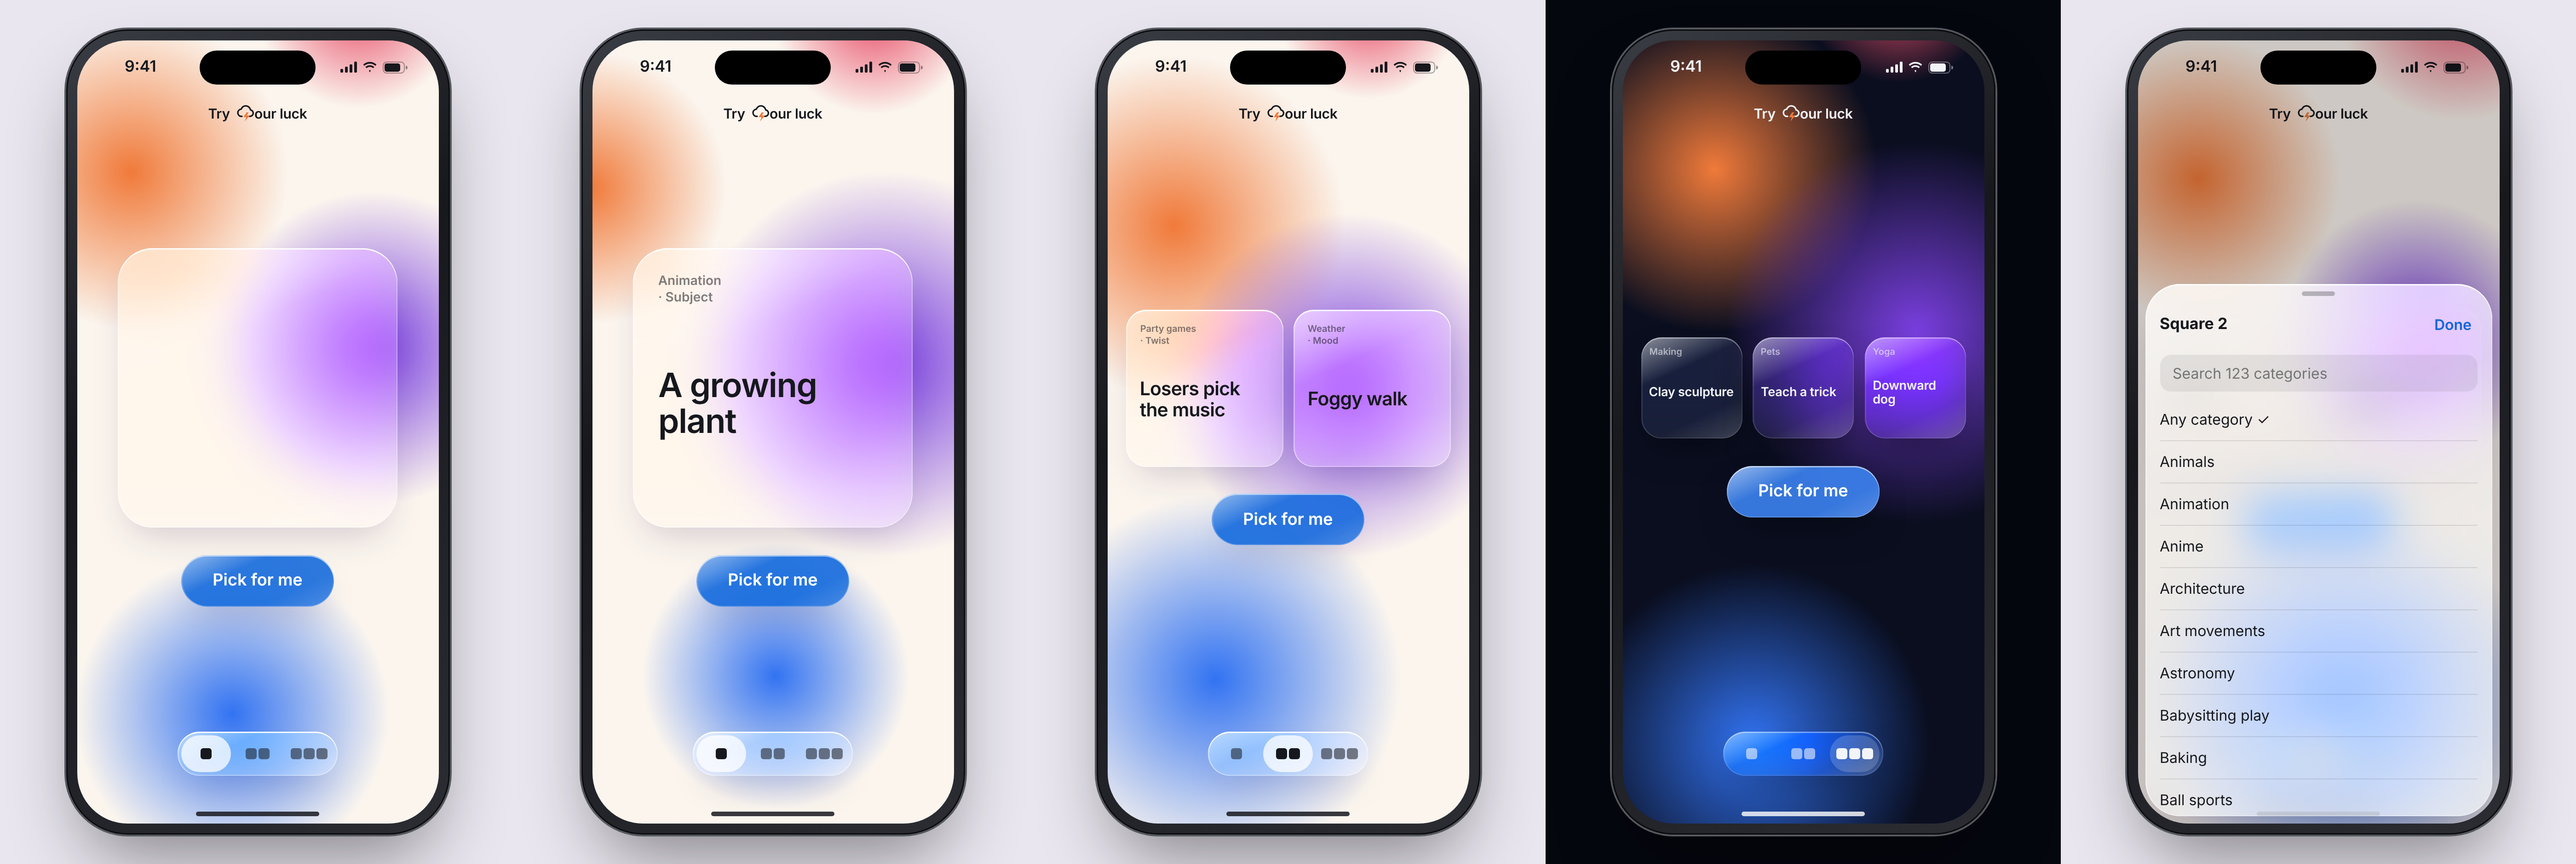
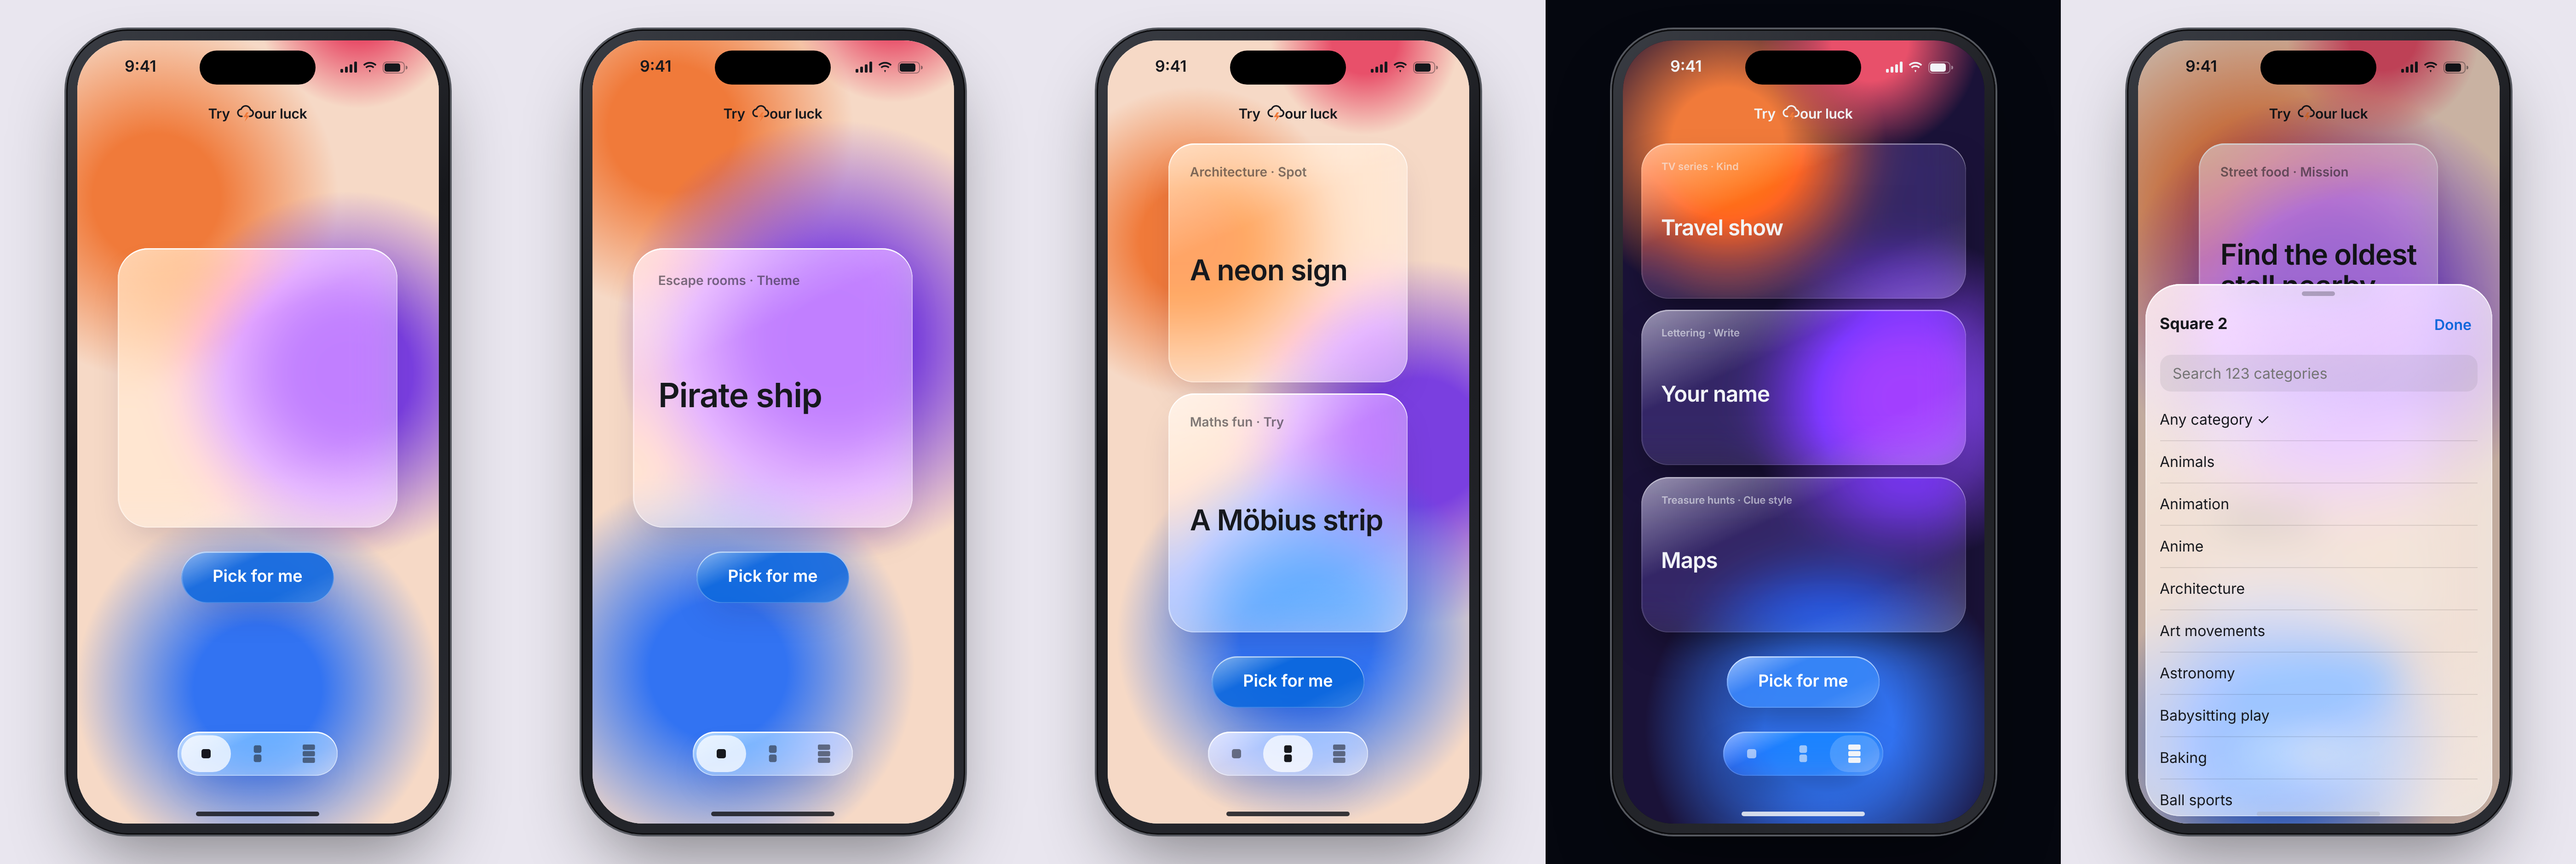
Stack squares vertically and strengthen the colour wash
Claude-Session: https://claude.ai/code/session_018bKjS9Z5v4JqpJXn7fgvmw

diff --git a/random-pick/index.html b/random-pick/index.html
@@ -14,7 +14,7 @@
    COLOUR cream ground with peach, lilac and jomud blue light behind the glass; blue for the one action
    TYPE SF Pro on iPhone (system-ui), Inter as the stand-in elsewhere
    LAYOUT phone: tiny title, squares and Pick centred, count switch above the home bar; wider: the same screen inside an iPhone 15 frame */
-:root{color-scheme:light dark;--bg:light-dark(#FBF5EE,#0A0E1F);--ink:light-dark(#16181D,#F2F4F8);--muted:light-dark(rgba(22,24,29,.55),rgba(242,244,248,.6));--brand:light-dark(#0F66DB,#3D86F5);--peach:#F07A3A;--lilac:#7A3FE0;--rose:#E8506A;--sky:#3273F2;--gfill:light-dark(rgba(255,255,255,.22),rgba(255,255,255,.07));--ghi:light-dark(rgba(255,255,255,.9),rgba(255,255,255,.38));--glo:light-dark(rgba(255,255,255,.35),rgba(255,255,255,.1));--gshadow:light-dark(rgba(40,25,80,.22),rgba(0,0,0,.5));--blob:light-dark(.85,.55);--stage:light-dark(#E9E6EF,#05070F)}
+:root{color-scheme:light dark;--bg:light-dark(#FBF5EE,#0A0E1F);--ink:light-dark(#16181D,#F2F4F8);--muted:light-dark(rgba(22,24,29,.55),rgba(242,244,248,.6));--brand:light-dark(#0F66DB,#3D86F5);--peach:#F07A3A;--lilac:#7A3FE0;--rose:#E8506A;--sky:#3273F2;--gfill:light-dark(rgba(255,255,255,.4),rgba(255,255,255,.1));--ghi:light-dark(rgba(255,255,255,.9),rgba(255,255,255,.38));--glo:light-dark(rgba(255,255,255,.35),rgba(255,255,255,.1));--gshadow:light-dark(rgba(40,25,80,.22),rgba(0,0,0,.5));--blob:light-dark(1,.8);--stage:light-dark(#E9E6EF,#05070F)}
 :root[data-theme=light]{color-scheme:light}:root[data-theme=dark]{color-scheme:dark}
 *{box-sizing:border-box;min-width:0}
 html,body{height:100%}
@@ -37,12 +37,12 @@ button{font:inherit;color:inherit;border:0;background:none;padding:0;cursor:poin
 }
 
 /* colour wash behind the glass */
-.wash{position:absolute;inset:-20%;pointer-events:none;opacity:var(--blob)}
-.wash i{position:absolute;width:62%;aspect-ratio:1;border-radius:50%;transition:transform 1.6s cubic-bezier(.2,.8,.2,1)}
-.wash i:nth-child(1){left:-6%;top:12%;background:radial-gradient(closest-side,var(--peach),transparent)}
-.wash i:nth-child(2){right:-4%;top:28%;background:radial-gradient(closest-side,var(--lilac),transparent)}
-.wash i:nth-child(3){left:14%;bottom:10%;background:radial-gradient(closest-side,var(--sky),transparent)}
-.wash i:nth-child(4){right:10%;top:2%;width:40%;background:radial-gradient(closest-side,var(--rose),transparent)}
+.wash{position:absolute;inset:-20%;background:light-dark(#F6D9C6,#1A1238);pointer-events:none;opacity:var(--blob)}
+.wash i{position:absolute;width:72%;aspect-ratio:1;border-radius:50%;transition:transform 1.6s cubic-bezier(.2,.8,.2,1)}
+.wash i:nth-child(1){left:-6%;top:12%;background:radial-gradient(closest-side,var(--peach) 35%,transparent)}
+.wash i:nth-child(2){right:-4%;top:28%;background:radial-gradient(closest-side,var(--lilac) 35%,transparent)}
+.wash i:nth-child(3){left:14%;bottom:10%;background:radial-gradient(closest-side,var(--sky) 35%,transparent)}
+.wash i:nth-child(4){right:10%;top:2%;width:40%;background:radial-gradient(closest-side,var(--rose) 35%,transparent)}
 
 /* Liquid Glass */
 .glass{position:relative;isolation:isolate;background:var(--gfill);-webkit-backdrop-filter:blur(22px) saturate(185%);backdrop-filter:blur(22px) saturate(185%);box-shadow:inset 0 1.5px 0 var(--ghi),inset 1.5px 0 0 var(--glo),inset -1px 0 0 var(--glo),inset 0 -1px 0 var(--glo),0 18px 40px -14px var(--gshadow);transition:transform .35s cubic-bezier(.3,1.5,.5,1),background .2s}
@@ -53,23 +53,25 @@ button{font:inherit;color:inherit;border:0;background:none;padding:0;cursor:poin
 .title{position:relative;z-index:2;margin:calc(var(--top) + 10px) 0 0;text-align:center;font-weight:600;font-size:15px;letter-spacing:-.01em;color:var(--muted)}
 .title{color:var(--ink)}
 .title svg{width:21px;height:21px;vertical-align:-5px;margin:0 0 0 2px}
-.middle{position:relative;z-index:2;flex:1;display:flex;flex-direction:column;align-items:center;justify-content:center;gap:30px;padding:0 20px}
-.slots{width:100%;display:grid;grid-template-columns:repeat(var(--n),minmax(0,1fr));gap:12px;transition:width .4s}
-.slots[data-n="1"]{width:86%}
-.cell{container-type:inline-size}
-.sq{position:relative;width:100%;aspect-ratio:1;border-radius:clamp(22px,11cqw,34px);display:flex;flex-direction:column;padding:9cqw;text-align:left;animation:pop .5s cubic-bezier(.3,1.5,.5,1)}
-.slots[data-n="1"] .sq{border-radius:38px}
+.middle{position:relative;z-index:2;flex:1;min-height:0;display:flex;flex-direction:column;align-items:center;justify-content:center;gap:26px;padding:22px 20px 26px}
+.slots{width:100%;display:flex;flex-direction:column;align-items:center;gap:12px;min-height:0}
+.slots[data-n="2"],.slots[data-n="3"]{flex:1}
+.cell{container-type:size;width:100%;min-height:0;display:flex;justify-content:center}
+.slots[data-n="1"] .cell{width:min(86%,340px);aspect-ratio:1}
+.slots[data-n="2"] .cell,.slots[data-n="3"] .cell{flex:1}
+.sq{position:relative;width:100%;height:100%;border-radius:clamp(22px,11cqmin,38px);display:flex;flex-direction:column;padding:9cqmin;text-align:left;animation:pop .5s cubic-bezier(.3,1.5,.5,1)}
+.slots[data-n="2"] .sq{width:auto;aspect-ratio:1}
+.slots[data-n="3"] .sq{border-radius:30px;padding:clamp(16px,11cqmin,24px) 22px}
 @keyframes pop{from{transform:scale(.6);opacity:0}}
-.cap{font-size:clamp(10px,5.4cqw,14px);font-weight:600;color:var(--muted);line-height:1.25;display:flex;gap:6px;justify-content:space-between}
-.cap span{overflow:hidden;text-overflow:ellipsis;display:-webkit-box;-webkit-line-clamp:2;-webkit-box-orient:vertical}
-.big{flex:1;display:flex;align-items:safe center;font-weight:600;font-size:clamp(14px,12cqw,40px);line-height:1.08;letter-spacing:-.02em;hyphens:auto;overflow-wrap:break-word;overflow:hidden}
+.cap{font-size:clamp(11px,5.4cqmin,14px);font-weight:600;color:var(--muted);line-height:1.25;display:flex;gap:6px;justify-content:space-between}
+.cap span{flex:1;overflow:hidden;text-overflow:ellipsis;display:-webkit-box;-webkit-line-clamp:2;-webkit-box-orient:vertical}
+.slots[data-n="3"] .cap span{-webkit-line-clamp:1}
+.big{flex:1;display:flex;align-items:safe center;font-weight:600;font-size:clamp(16px,12cqmin,40px);line-height:1.08;letter-spacing:-.02em;hyphens:auto;overflow-wrap:break-word;overflow:hidden}
+.slots[data-n="3"] .big{font-size:clamp(18px,14cqmin,28px)}
 .big.tick{animation:roll .09s ease-out}
 @keyframes roll{from{transform:translateY(-35%);opacity:.2;filter:blur(1.5px)}}
-.foot{position:absolute;right:7cqw;bottom:6cqw;height:clamp(12px,7cqw,18px);color:var(--muted)}
-.slots[data-n="3"] .sq{padding:9cqw 8cqw}
-.slots[data-n="3"] .cap span{-webkit-line-clamp:1}
-.slots[data-n="3"] .cap .f{display:none}
-.slots[data-n="3"] .big{font-size:13.5px;line-height:1.15;letter-spacing:-.01em}
+.foot{position:absolute;right:7cqmin;bottom:6cqmin;height:clamp(12px,7cqmin,18px);color:var(--muted)}
+.slots[data-n="3"] .foot{right:20px;bottom:14px}
 .foot svg{height:100%;width:auto}
 .sq.nope{animation:nope .4s}
 @keyframes nope{25%{transform:translateX(-6px)}50%{transform:translateX(5px)}75%{transform:translateX(-3px)}}
@@ -77,7 +79,7 @@ button{font:inherit;color:inherit;border:0;background:none;padding:0;cursor:poin
 .count{position:relative;z-index:2;align-self:center;margin-bottom:calc(var(--bot) + 18px);display:flex;padding:4px;gap:2px;border-radius:24px}
 .count button{width:54px;height:40px;border-radius:20px;display:grid;place-items:center;color:var(--muted);transition:background .25s,color .25s}
 .count button[aria-pressed=true]{background:light-dark(rgba(255,255,255,.75),rgba(255,255,255,.18));color:var(--ink)}
-.count svg{height:12px;fill:currentColor}
+.count svg{height:20px;fill:currentColor}
 :focus-visible{outline:3px solid color-mix(in srgb,var(--brand) 55%,transparent);outline-offset:3px}
 
 /* category sheet */
@@ -114,9 +116,9 @@ button{font:inherit;color:inherit;border:0;background:none;padding:0;cursor:poin
       </div>
 
       <div class="glass count" id="count" role="group" aria-label="How many picks">
-        <button data-n="1" aria-label="One square"><svg viewBox="0 0 12 12"><rect width="12" height="12" rx="3"/></svg></button>
-        <button data-n="2" aria-label="Two squares"><svg viewBox="0 0 26 12"><rect width="12" height="12" rx="3"/><rect x="14" width="12" height="12" rx="3"/></svg></button>
-        <button data-n="3" aria-label="Three squares"><svg viewBox="0 0 40 12"><rect width="12" height="12" rx="3"/><rect x="14" width="12" height="12" rx="3"/><rect x="28" width="12" height="12" rx="3"/></svg></button>
+        <button data-n="1" aria-label="One square"><svg viewBox="0 0 12 24"><rect y="6" width="12" height="12" rx="3"/></svg></button>
+        <button data-n="2" aria-label="Two squares"><svg viewBox="0 0 12 24"><rect x="1" y="1" width="10" height="10" rx="2.5"/><rect x="1" y="13" width="10" height="10" rx="2.5"/></svg></button>
+        <button data-n="3" aria-label="Three squares"><svg viewBox="0 0 16 24"><rect width="16" height="7" rx="2"/><rect y="8.5" width="16" height="7" rx="2"/><rect y="17" width="16" height="7" rx="2"/></svg></button>
       </div>
       <div class="homebar"></div>
       <div id="sheetHost"></div>
@@ -159,7 +161,7 @@ button{font:inherit;color:inherit;border:0;background:none;padding:0;cursor:poin
     if (!s.path) return `<button class="glass press sq" data-i="${i}" aria-label="Empty square ${i + 1}"><div class="cap">${s.lock ? `<span>${esc(s.lock)}</span>${ICON_LOCK}` : ""}</div><div class="big"></div><div class="foot"></div></button>`;
     const p = s.path, last = p[p.length - 1], trail = p.slice(0, -1).map(n => n.name).join(" · ");
     const capTxt = `${esc(p[0].name)}<span class="f">${p.length > 2 ? " · " + p.slice(1, -1).map(n => esc(n.name)).join(" · ") : ""}</span>`;
-    return `<button class="glass press sq" data-i="${i}" aria-label="${esc(trail + ": " + last.name)}"><div class="cap"><span>${capTxt}</span>${s.lock ? ICON_LOCK : ""}</div><div class="big">${esc(last.name)}</div><div class="foot">${last.children ? ICON_DEEPER : ""}</div></button>`;
+    return `<button class="glass press sq" data-i="${i}" aria-label="${esc(trail + ": " + last.name)}"><div class="cap"><span>${esc(trail)}</span>${s.lock ? ICON_LOCK : ""}</div><div class="big">${esc(last.name)}</div><div class="foot">${last.children ? ICON_DEEPER : ""}</div></button>`;
   };
 
   const render = () => {

diff --git a/random-pick/ios/TryYourLuck/ContentView.swift b/random-pick/ios/TryYourLuck/ContentView.swift
@@ -20,18 +20,21 @@ struct ContentView: View {
 
                 Spacer()
 
+                // 1 square: centred. 2: stacked squares. 3: full-width cards filling the space.
                 GlassEffectContainer(spacing: 14) {
-                    HStack(spacing: 12) {
+                    VStack(spacing: 12) {
                         ForEach(slots.indices, id: \.self) { i in
                             SquareView(slot: slots[i], count: slots.count)
-                                .glassEffect(.regular.interactive(), in: .rect(cornerRadius: slots.count == 1 ? 38 : 26))
+                                .glassEffect(.regular.interactive(), in: .rect(cornerRadius: slots.count == 3 ? 30 : 38))
                                 .glassEffectID(slots[i].id, in: glass)
                                 .onTapGesture { slots[i].path.isEmpty ? pickOne(i) : deeper(i) }
                                 .onLongPressGesture { sheetFor = i }
                         }
                     }
-                    .frame(maxWidth: slots.count == 1 ? 340 : .infinity)
+                    .frame(maxWidth: slots.count == 1 ? 340 : .infinity,
+                           maxHeight: slots.count == 1 ? nil : .infinity)
                 }
+                .frame(maxHeight: slots.count == 1 ? nil : .infinity)
                 .padding(.horizontal, 20)
                 .animation(.spring(response: 0.45, dampingFraction: 0.72), value: slots.count)
 
@@ -40,14 +43,14 @@ struct ContentView: View {
                     .buttonStyle(.glassProminent)
                     .controlSize(.large)
                     .tint(.jomudBlue)
-                    .padding(.top, 30)
+                    .padding(.top, 26)
 
-                Spacer()
+                if slots.count == 1 { Spacer() } else { Spacer().frame(height: 22) }
 
                 Picker("Squares", selection: $count) {
                     Image(systemName: "square.fill").tag(1)
-                    Image(systemName: "rectangle.split.2x1.fill").tag(2)
-                    Image(systemName: "rectangle.split.3x1.fill").tag(3)
+                    Image(systemName: "rectangle.split.1x2.fill").tag(2)
+                    Image(systemName: "rectangle.split.3x3.fill").tag(3)
                 }
                 .pickerStyle(.segmented)
                 .frame(width: 180)
@@ -140,8 +143,8 @@ struct SquareView: View {
     var body: some View {
         VStack(alignment: .leading, spacing: 4) {
             HStack(alignment: .top) {
-                Text(count == 3 ? (slot.path.first?.name ?? "") : slot.caption)
-                    .font(count == 3 ? .caption2 : .caption)
+                Text(slot.caption)
+                    .font(.caption)
                     .fontWeight(.semibold)
                     .foregroundStyle(.secondary)
                     .lineLimit(count == 3 ? 1 : 2)
@@ -150,7 +153,7 @@ struct SquareView: View {
             }
             Spacer(minLength: 0)
             Text(slot.shown)
-                .font(count == 1 ? .largeTitle : count == 2 ? .title3 : .footnote)
+                .font(count == 1 ? .largeTitle : count == 2 ? .title : .title2)
                 .fontWeight(.semibold)
                 .minimumScaleFactor(0.7)
                 .contentTransition(.interpolate)
@@ -164,9 +167,9 @@ struct SquareView: View {
                 }
             }
         }
-        .padding(count == 3 ? 10 : 18)
-        .frame(maxWidth: .infinity)
-        .aspectRatio(1, contentMode: .fit)
+        .padding(count == 3 ? 20 : 22)
+        .frame(maxWidth: .infinity, maxHeight: count == 3 ? .infinity : nil)
+        .aspectRatio(count == 3 ? nil : 1, contentMode: .fit)
         .contentShape(.rect)
         .accessibilityElement(children: .combine)
         .accessibilityHint(slot.canGoDeeper ? "Tap to go deeper, hold to choose a category" : "Hold to choose a category")
@@ -206,13 +209,13 @@ struct Wash: View {
         GeometryReader { geo in
             let w = geo.size.width, h = geo.size.height
             ZStack {
-                (scheme == .dark ? Color(red: 0.04, green: 0.055, blue: 0.12) : Color.jomudCream)
-                blob(.jomudPeach, x: 0.15, y: 0.25, size: w * 0.95, w: w, h: h, k: 1)
-                blob(.jomudLilac, x: 0.85, y: 0.42, size: w * 0.95, w: w, h: h, k: 2)
-                blob(.jomudBlue, x: 0.35, y: 0.82, size: w * 0.95, w: w, h: h, k: 3)
+                (scheme == .dark ? Color(red: 0.1, green: 0.07, blue: 0.22) : Color(red: 0.96, green: 0.85, blue: 0.78))
+                blob(.jomudPeach, x: 0.15, y: 0.25, size: w * 1.15, w: w, h: h, k: 1)
+                blob(.jomudLilac, x: 0.85, y: 0.42, size: w * 1.15, w: w, h: h, k: 2)
+                blob(.jomudBlue, x: 0.35, y: 0.82, size: w * 1.15, w: w, h: h, k: 3)
                 blob(.jomudRose, x: 0.8, y: 0.05, size: w * 0.6, w: w, h: h, k: 4)
             }
-            .opacity(scheme == .dark ? 0.75 : 1)
+            .opacity(scheme == .dark ? 0.85 : 1)
             .animation(.smooth(duration: 1.6), value: seed)
         }
     }
@@ -221,7 +224,7 @@ struct Wash: View {
         // Small deterministic offset per pick, so the wash moves without flashing.
         let dx = sin(Double(seed * 7 + k * 13)) * 0.12, dy = cos(Double(seed * 5 + k * 11)) * 0.1
         return Circle()
-            .fill(RadialGradient(colors: [c, c.opacity(0)], center: .center, startRadius: 0, endRadius: size / 2))
+            .fill(RadialGradient(stops: [.init(color: c, location: 0.35), .init(color: c.opacity(0), location: 1)], center: .center, startRadius: 0, endRadius: size / 2))
             .frame(width: size, height: size)
             .position(x: (x + dx) * w, y: (y + dy) * h)
     }
